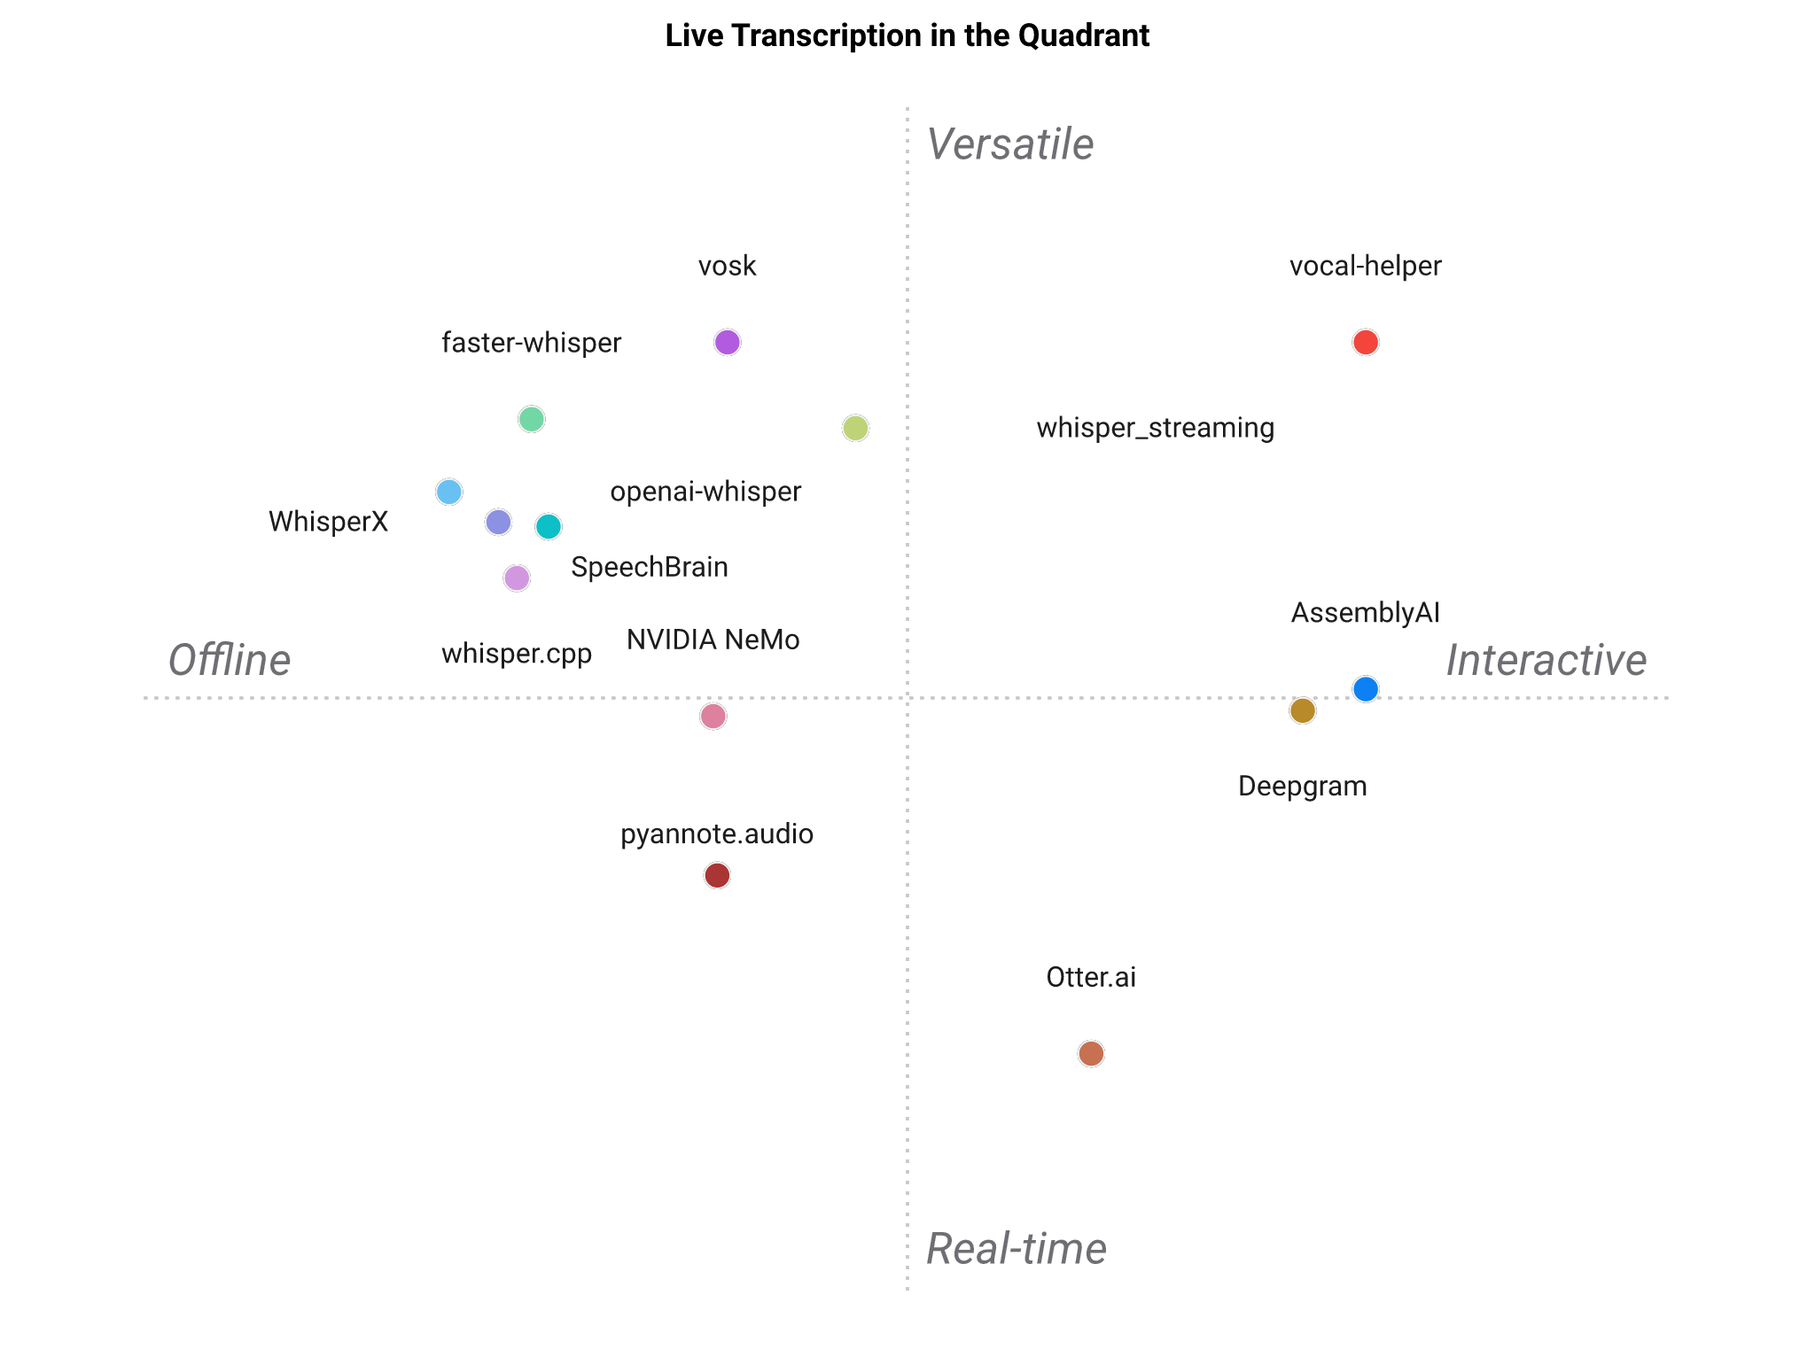
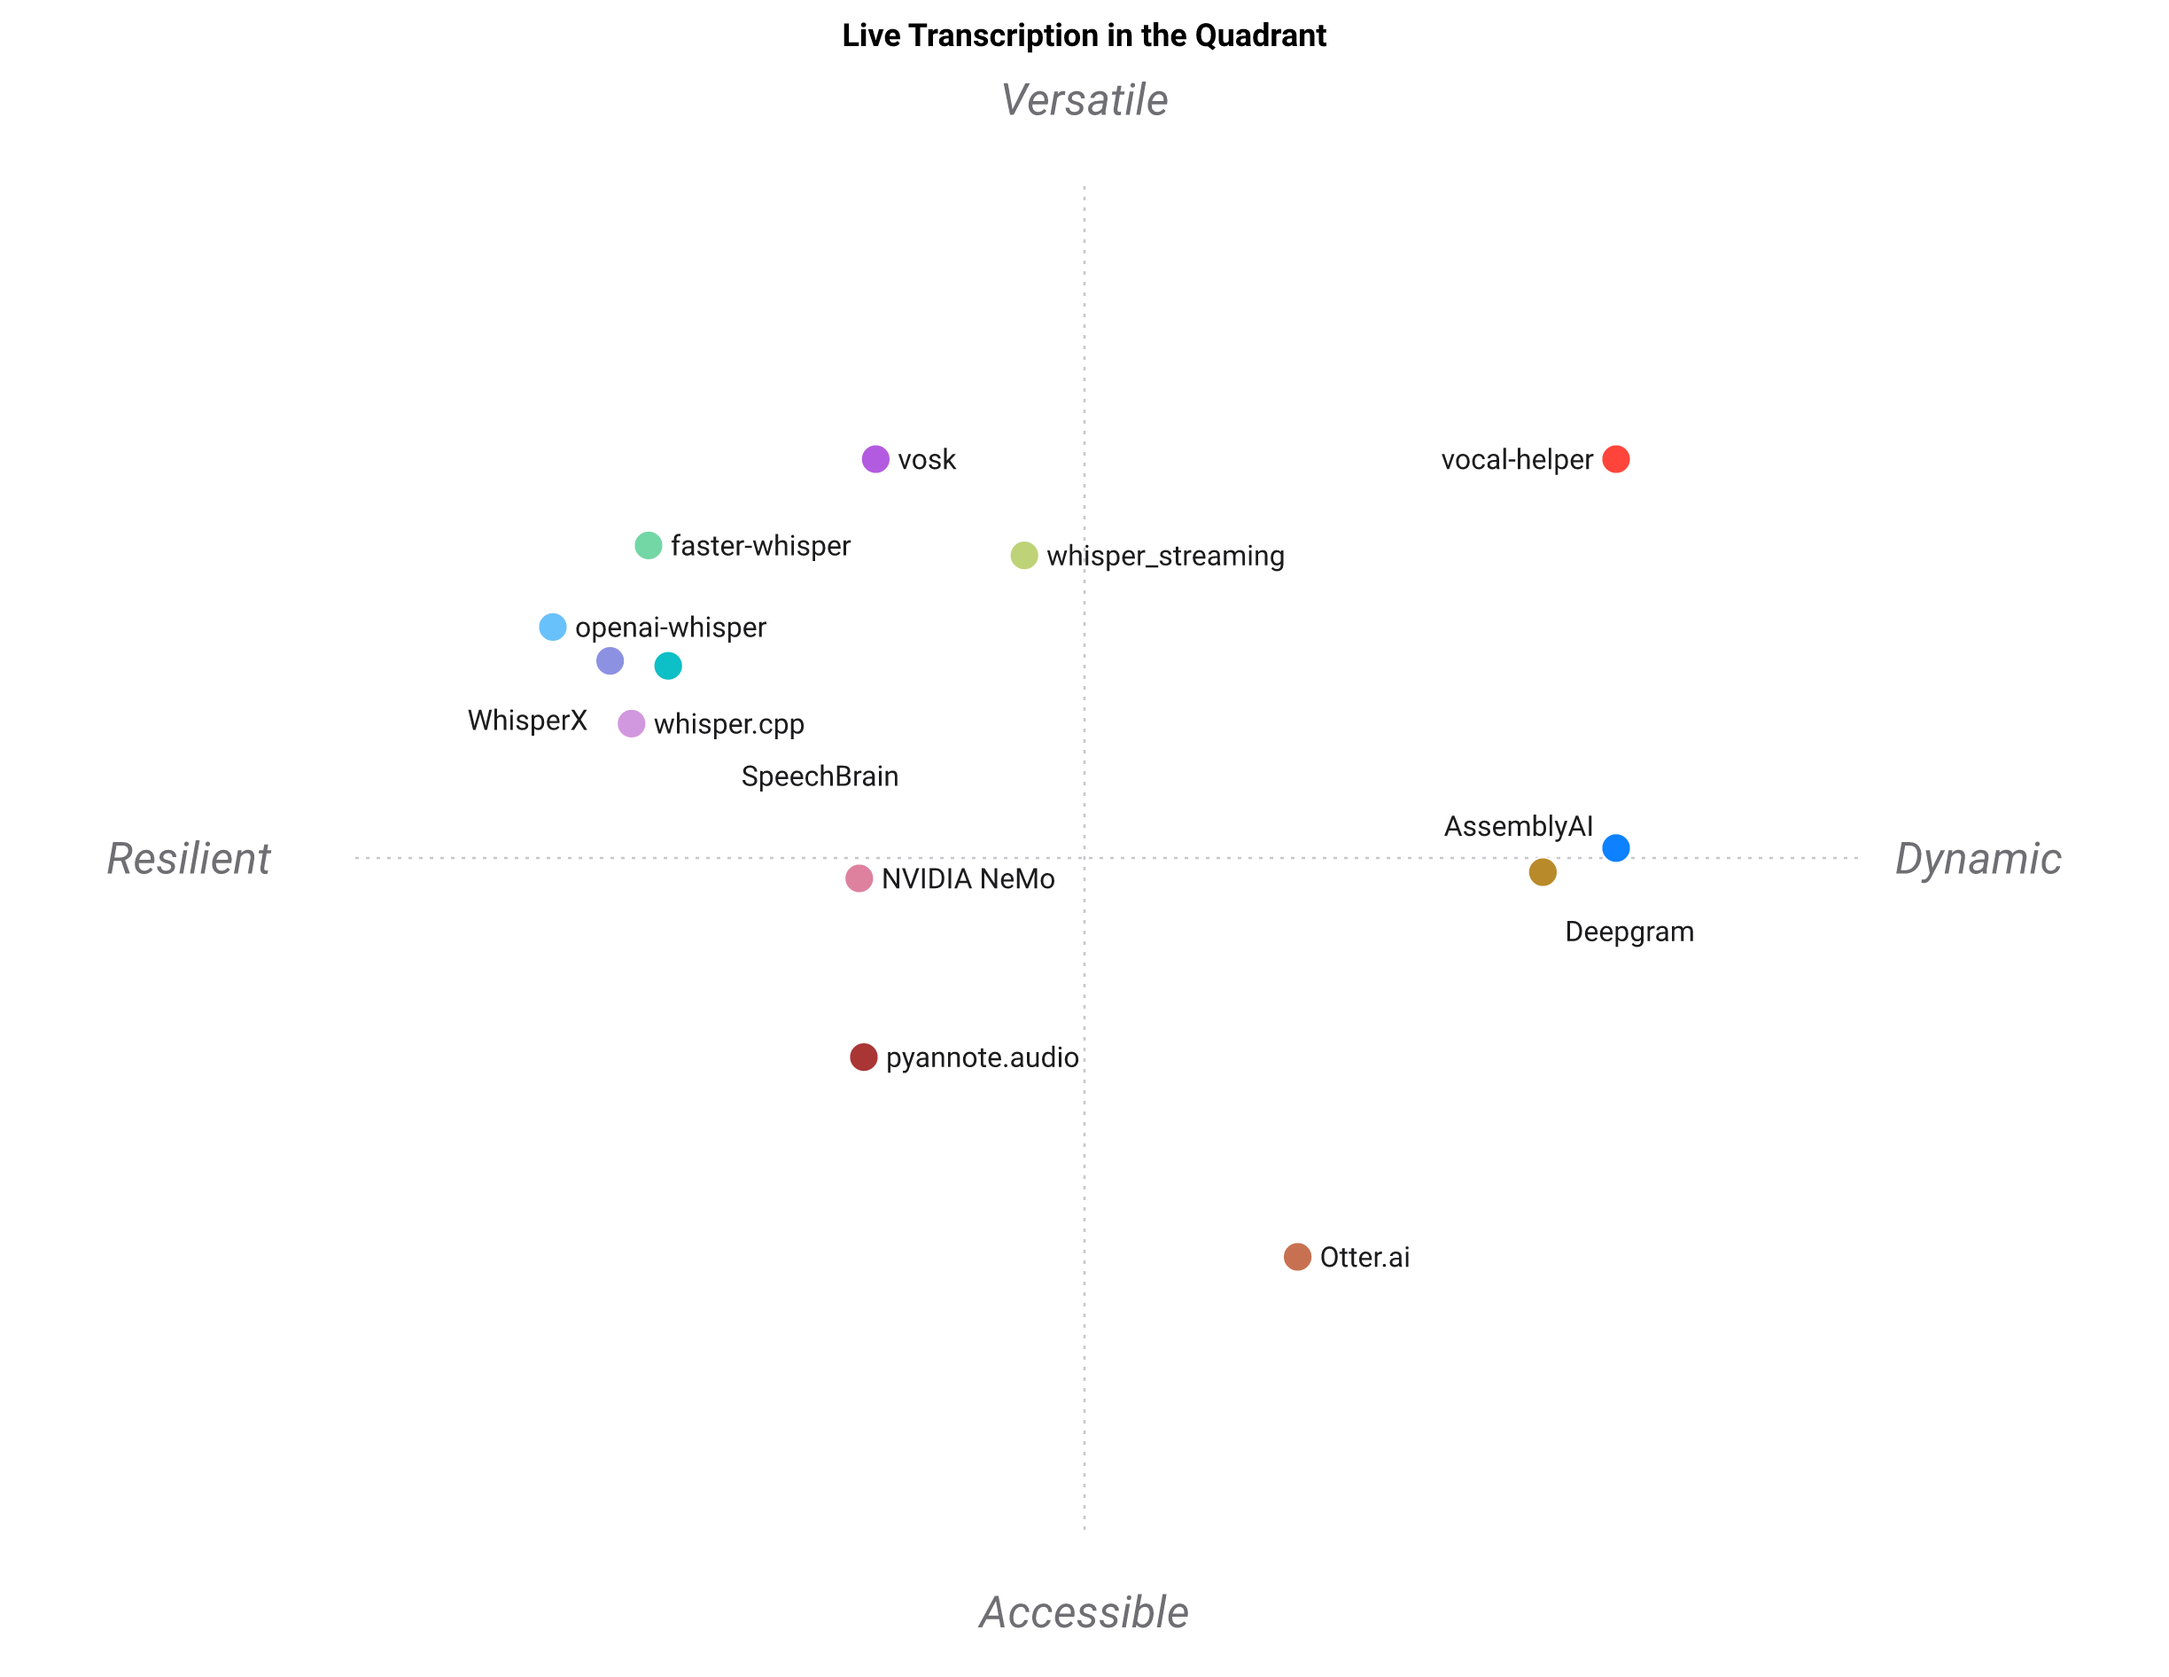
docs: regenerate LANDSCAPE/PAYSAGE positioning figures
Rerun via gen_landscape.py against the current standpoint (Vega retired,
SVG+resvg_py rasterisation pipeline).

diff --git a/PAYSAGE.md b/PAYSAGE.md
@@ -40,7 +40,7 @@ Représentation 2D du tableau ci-dessus.
 
 ![Carte de positionnement](https://raw.githubusercontent.com/warith-harchaoui/vocal-helper/main/assets/paysage.png)
 
-La carte est un résumé en 2D des 8 critères : à lire comme une forme, pas comme un classement. « vocal-helper » se situe dans le coin en haut à droite. Les axes se lisent **Horizontal — Précision ↔ Flexibilité** et **Vertical — Intégration ↔ Simplicité**.
+La carte est un résumé en 2D des 8 critères : à lire comme une forme, pas comme un classement. « vocal-helper » se situe dans le coin en haut à droite. Les axes se lisent **Horizontal — Autonomie ↔ Dynamisme** et **Vertical — Adaptabilité ↔ Richesse**.
 <!-- FIGURE:END -->
 
 ## Positionnement

diff --git a/LANDSCAPE.md b/LANDSCAPE.md
@@ -39,7 +39,7 @@ non-streaming diarization, general-purpose LLM chat) is not penalised
 
 ![Positioning map](https://raw.githubusercontent.com/warith-harchaoui/vocal-helper/main/assets/landscape.png)
 
-The map is a 2-D summary of the eight criteria, so read it as a shape, not a scoreboard. `vocal-helper` is at the top-right corner. The axes read **Horizontal — Offline ↔ Interactive** and **Vertical — Real-time ↔ Versatile**.
+The map is a 2-D summary of the eight criteria, so read it as a shape, not a scoreboard. `vocal-helper` is at the top-right corner. The axes read **Horizontal — Resilient ↔ Dynamic** and **Vertical — Accessible ↔ Versatile**.
 <!-- FIGURE:END -->
 
 ## Positioning
